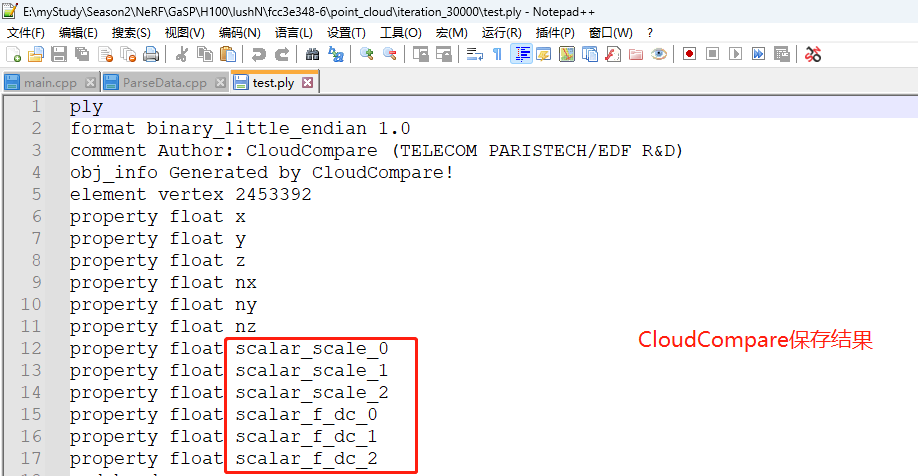
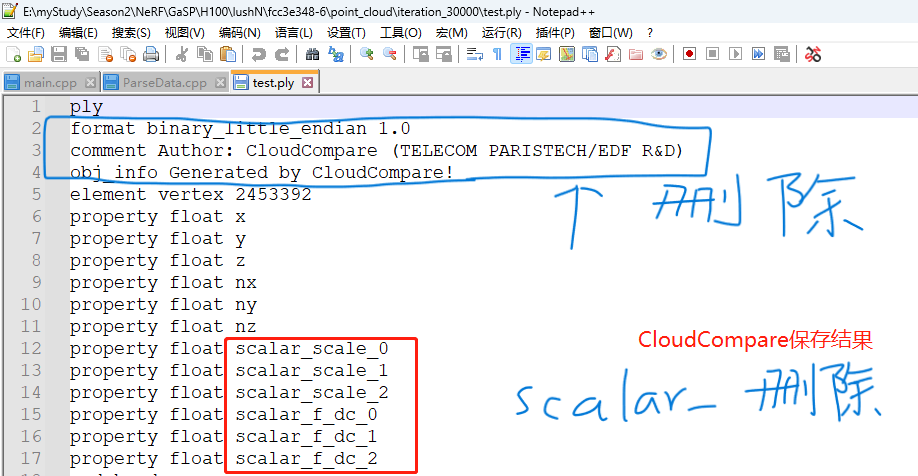
Site updated: 2024-02-04 11:51:24

Changed region(s): [[0.0305, 0.2353, 0.9455, 0.5294], [0.549, 0.7941, 0.7625, 0.8824], [0.8235, 0.7647, 0.9455, 0.8824]]

diff --git a/2024/01/30/Gaussian Splatting/index.html b/2024/01/30/Gaussian Splatting/index.html
@@ -64,7 +64,7 @@
 <meta property="og:image" content="https://anonymouslosty.github.io/img/GS36.PNG">
 <meta property="og:image" content="https://anonymouslosty.github.io/img/GS37.PNG">
 <meta property="article:published_time" content="2024-01-30T03:56:23.000Z">
-<meta property="article:modified_time" content="2024-01-30T06:25:34.047Z">
+<meta property="article:modified_time" content="2024-02-04T03:49:41.314Z">
 <meta property="article:author" content="Ling yi">
 <meta property="article:tag" content="Gaussian Splatting">
 <meta name="twitter:card" content="summary_large_image">
@@ -278,7 +278,7 @@
         
         
         
-          25 分钟
+          26 分钟
         
       </span>
     
@@ -336,7 +336,7 @@
               <p class="note note-info">
                 
                   
-                    本文最后更新于：2024年1月30日 下午
+                    本文最后更新于：2024年2月4日 中午
                   
                 
               </p>
@@ -499,6 +499,7 @@ v2.0</a></p>
 <h3 id="点云导入">点云导入</h3>
 <p><font color='red'>观察到Properties为62，除去x,y,z,nx,ny,nz六个自动匹配的属性后，还需要在Scalar
 field属性中添加56个属性</font></p>
+<p><font color='red'><strong>注意，添加属性的顺序一定要和原始高斯ply中的顺序保持一致！！！</strong></font></p>
 <figure>
 <img src="/img/GS18.PNG" srcset="/img/loading.gif" lazyload alt="导入点云属性" />
 <figcaption aria-hidden="true">导入点云属性</figcaption>
@@ -550,6 +551,7 @@ field属性中添加56个属性</font></p>
 <img src="/img/GS27.PNG" srcset="/img/loading.gif" lazyload alt="CloudCompare保存Ply头文件" />
 <figcaption aria-hidden="true">CloudCompare保存Ply头文件</figcaption>
 </figure>
+<p><font color='red'><strong>需要在CloudCompare保存结果的头文件中，将CloudCompare的信息删除</strong></font></p>
 <p><font color='red'>需要在CloudCompare保存结果的头文件中，将<strong>scalar_</strong>字段(注意有下划线)删除，使得两者头文件中记载的属性保持一致</font></p>
 <h2 id="模型查看">模型查看</h2>
 <h3 id="sibr-viewer">SIBR Viewer</h3>
@@ -685,7 +687,7 @@ Undistorted</figcaption>
       
         <div class="license-meta-item license-meta-date">
           <div>更新于</div>
-          <div>2024年1月30日</div>
+          <div>2024年2月4日</div>
         </div>
       
       <div class="license-meta-item">
